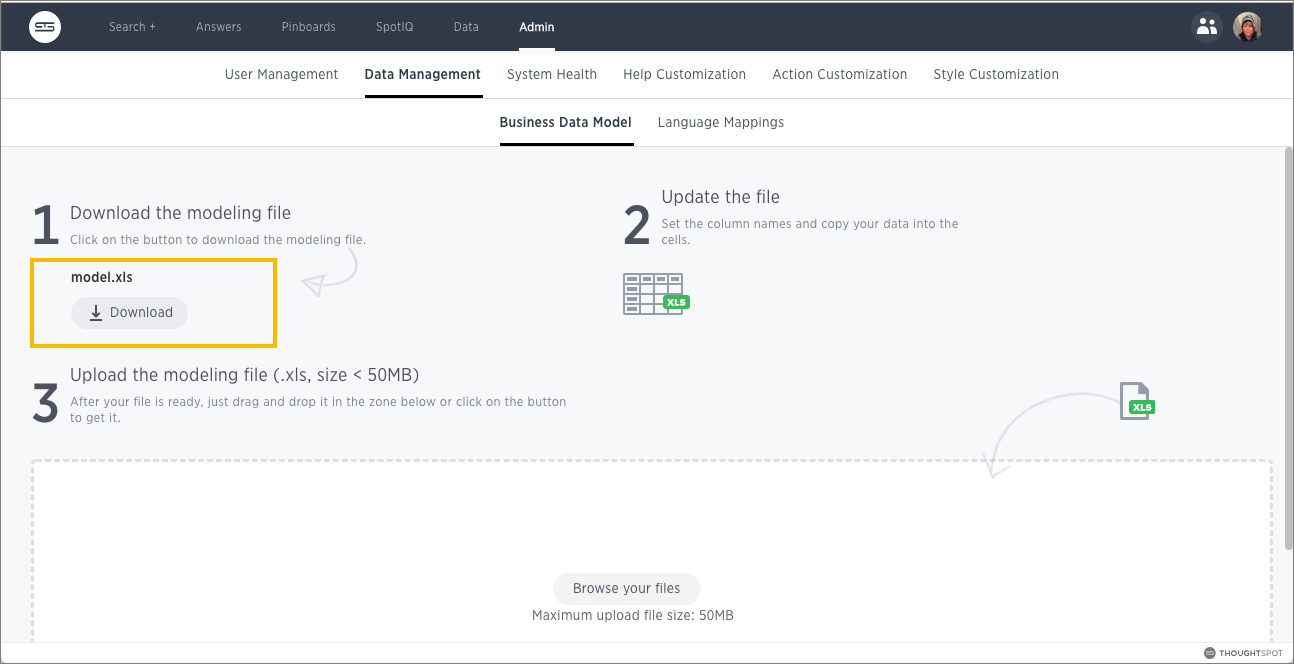
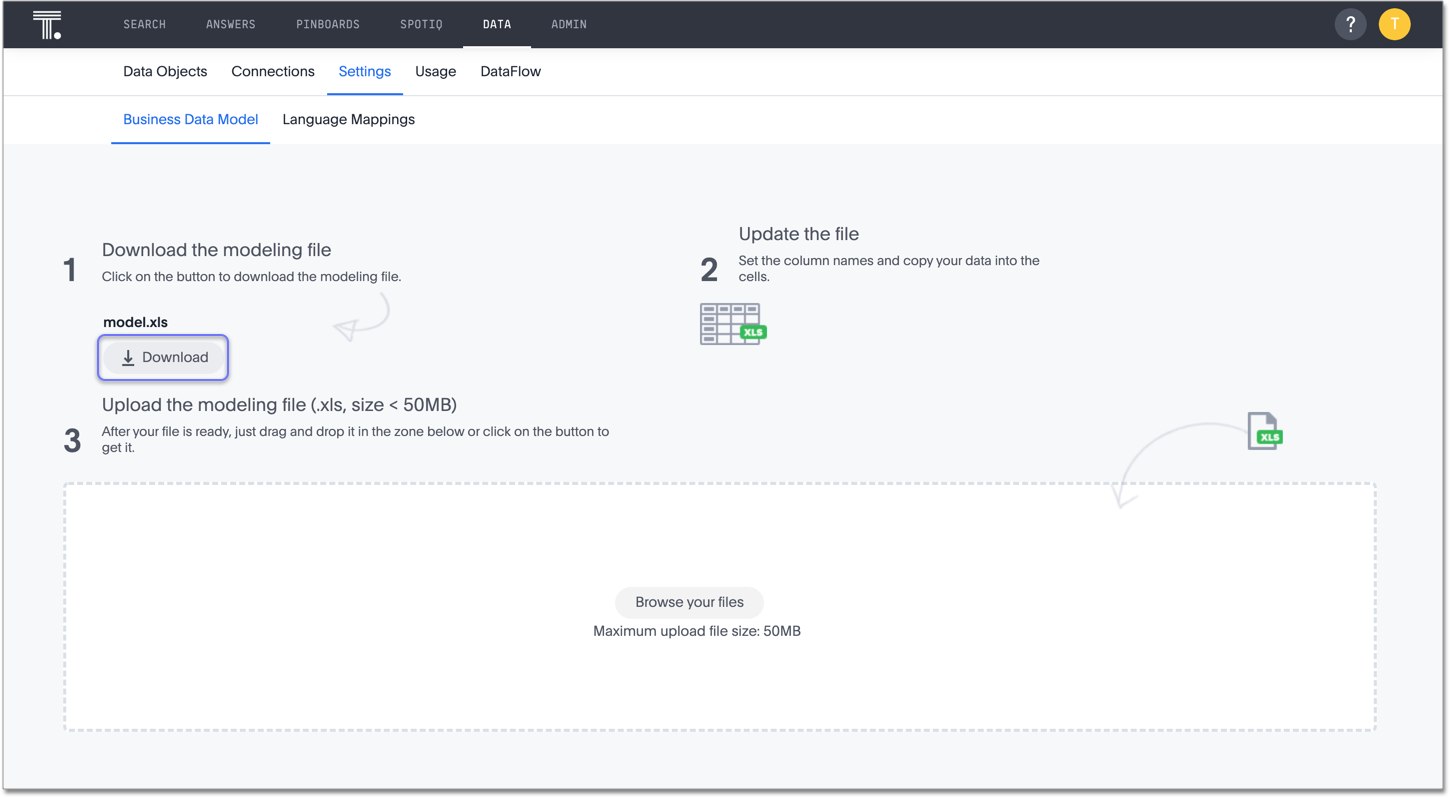
SCAL-63871 added info about spotapps, SCAL-61065

diff --git a/_admin/manage-jobs/scheduled-pinboards-management.md b/_admin/manage-jobs/scheduled-pinboards-management.md
@@ -2,13 +2,15 @@
 title: [Scheduled pinboards management]
 
 last_updated: tbd
-summary: "You can manage all scheduled pinboards on the Jobs Management page under Admin."
+summary: "You can manage all scheduled pinboards on the Jobs Management page."
 sidebar: mydoc_sidebar
 permalink: /:collection/:path.html
 ---
-Users who are not admins, but have can schedule pinboard privilege, can only view pinboard schedules they've created. You can select specific jobs and choose to pause, resume, edit, or delete them. You can have up to 50 scheduled jobs on your cluster at time. Contact ThoughtSpot Support if you'd like to increase this limit.
+Users who are not admins, but have the **can schedule pinboard** privilege, can only view pinboard schedules they've created. You can select specific jobs and choose to pause, resume, edit, or delete them. You can have up to 50 scheduled jobs on your cluster at time. Contact ThoughtSpot Support if you'd like to increase this limit.
 
- ![]({{ site.baseurl }}/images/jobs_management.png "View Jobs Management page")
+View the Jobs Management page by clicking **Data > Usage > Jobs Management**.
+
+![]({{ site.baseurl }}/images/jobs_management.png "View Jobs Management page")
 
 ## Bulk actions
 
@@ -18,12 +20,10 @@ Select the scheduled pinboards and use the **Delete**, **Resume**, and **Pause**
 
 Clicking on the row of a job will open a detailed view of every generated update of that job. You can see the start and end times of the job, as well as the status. Clicking on a job will show more information about the status updates.
 
- ![]({{ site.baseurl }}/images/success_pinboard_schedule.png "Success status updates")
-
- ![]({{ site.baseurl }}/images/failed_pinboard_schedule.png "Failed status updates")
+![Job statuses]({{ site.baseurl }}/images/pinboard-job-status.png "Job statuses")
 
 ## Pinboard links
 
-Click the scheduled pinboard name link to jump to a Edit schedule page, where you can edit the schedule configurations.
+Click the scheduled pinboard name link to jump to an Edit schedule page, where you can edit the schedule configurations.
 
 You can also click the pinboard link provided in the scheduled pinboard emails to jump to the pinboard in ThoughtSpot. In order to have the link direct you to the correct URL, you must first configure front end host and port access. Contact ThoughtSpot Support to configure these settings.

diff --git a/_admin/data-modeling/searchiq-mappings.md b/_admin/data-modeling/searchiq-mappings.md
@@ -16,7 +16,7 @@ permalink: /:collection/:path.html
 
 When a user types a term in the SearchIQ search bar, SearchIQ interprets what the user means through language mappings. Users can teach their language to SearchIQ using [Teach SearchIQ your language]({{ site.baseurl }}/end-user/search/teach-searchiq.html).
 
-As an administrator, you can see and change these language mappings by editing the mappings file. You can access the mappings file if you are in the Administrator group, because then you can have access to the **ADMIN > Data Management** page. You can download the mappings file there. This allows you to view and edit all the language mappings users made, in bulk.
+As an administrator, you can see and change these language mappings by editing the mappings file. You can download the mappings file there from **Data > Settings > Language Mappings**. This allows you to view and edit all the language mappings users made, in bulk.
 
 ## Overview of the mapping process
 
@@ -40,8 +40,8 @@ you edit it using Microsoft Excel, vi/vim, or a similar text editing tool.
 To obtain the model file:
 
 1. Log in to ThoughtSpot from a browser as an Administrator user.
-2. Click **ADMIN** in the top navigation bar.
-3. Click **Data Management**, then click **Language Mappings**.
+2. Click **Data** in the top navigation bar.
+3. Click **Settings**, then click **Language Mappings**.
 4. Click **Download**.
 
 ## Edit the file and change the settings
@@ -77,9 +77,9 @@ After you have made changes to the mapping file, you must upload it back to
 ThoughtSpot before the changes will take effect. To upload the mapping file:
 
 1. Log in to ThoughtSpot from a browser as an Administrator user.
-2. Click **ADMIN**, on the top navigation bar.
+2. Click **Data**, on the top navigation bar.
 
-3. Click **Data Management**, then click **Language Mappings**.
+3. Click **Settings**, then click **Language Mappings**.
 4. Click **Browse your files** to upload the mappings.xls file, or drag and drop it in the zone.
 
     If you receive an error message upon uploading the file, check that it does

diff --git a/_admin/scriptability/app-templates.md b/_admin/scriptability/app-templates.md
@@ -1,0 +1,25 @@
+---
+title: [SpotApps]
+last_updated: 7/28/2020
+summary: "Use SpotApps to gain insights into your Salesforce, accounts receivable, or procurement instances."
+sidebar: mydoc_sidebar
+permalink: /:collection/:path.html
+---
+
+SpotApps let you examine your existing Salesforce, accounts receivable, and procurement data, using pre-built applications.
+
+When you first provision ThoughtSpot, you have to put in some work to load and model your data, and prepare it for your users. SpotApps can streamline this process, by providing you with pre-built ThoughtSpot objects based on your existing Salesforce, accounts receivable, and procurement data.
+
+Once you connect to your data, you can work with your ThoughtSpot contacts to deploy ThoughtSpot's scriptable applications, or SpotApps, which provide an easy way for you to start getting value from your data.
+
+Currently, ThoughtSpot offers three pre-built SpotApps: Salesforce, procurement, and accounts receivable. These applications leverage your data to provide pre-built Pinboards, Answers, and Worksheets.
+
+For example, if you choose to use the Procurement SpotApp, the **Search** page contains a Worksheet for your users to query on, called "Procurement Analytics Solution."
+
+![Procurement Worksheet Search]({{ site.baseurl }}/images/scriptable-app-procurement-search.png "Procurement Worksheet Search")
+
+Your users may want to understand what Answers and Pinboards are, and gain insights from them, before they start searching themselves. They can view and interact with any of the pre-existing objects, such as this Exec Summary Pinboard:
+
+![Exec summary]({{ site.baseurl }}/images/exec-summary-pinboard.png "Exec summary")
+
+When you are ready to move to a production environment, you can migrate these Pinboards, Answers, and Worksheets to your new environment using [Scriptability]({{ site.baseurl }}/admin/scriptability/scriptability.html), ThoughtSpot's flat-file editing and migration system for ThoughtSpot objects.

diff --git a/_admin/manage-jobs/about-scheduled-pinboards.md b/_admin/manage-jobs/about-scheduled-pinboards.md
@@ -6,7 +6,7 @@ sidebar: mydoc_sidebar
 permalink: /:collection/:path.html
 ---
 
-The **Jobs Management** page found on the **Admin** section in the ThoughtSpot
+The **Jobs Management** page found in the **Data > Usage** section in the ThoughtSpot
 web application allows you to create and manage jobs, namely scheduled
 pinboards. Scheduled pinboards should help with preparing for recurrent
 meetings, when reviewing the same pinboard is necessary. They should also be
@@ -51,7 +51,7 @@ each file format.
 |The CSV file gets data only for table visualizations.|The PDF file gets data for all visualizations.|
 |The email has n CSV attachments, where there are n table visualizations in the pinboard.|The email has only one attachment file, which includes every visualization on its own page.|
 |Table visualizations have all data rows that they're supposed to have.|Table visualizations include only the first 100 rows.|
-|In the case of a corrupted pinboard: no email is sent. An error message indicating failure to export data is visible on the Admin Jobs Management page.|In the case of a corrupted pinboard: the PDF attachment has empty/error screenshots.|
+|In the case of a corrupted pinboard: no email is sent. An error message indicating failure to export data is visible on the Data > Usage > Jobs Management page.|In the case of a corrupted pinboard: the PDF attachment has empty/error screenshots.|
 |In the case of a corrupted visualization: an email with the visualizations whose data can be exported is sent. An error message indicating visualization export error is visible on the Jobs Management page.|In the case of a corrupted visualization: the PDF attachment has empty/error slots for the corrupted visualizations.|
 
 The size of each email is limited to 25 MB, which matches most email services

diff --git a/_admin/data-modeling/edit-model-file.md b/_admin/data-modeling/edit-model-file.md
@@ -50,11 +50,11 @@ To obtain the model file:
 
 1. Log in to ThoughtSpot from a browser as an Administrator user.
 
-2. Click the **ADMIN** tab in the top navigation bar.
+2. Click the **Data** tab in the top navigation bar.
 
-    ![]({{ site.baseurl }}/images/admin_icon.png)
+    ![]({{ site.baseurl }}/images/data-tab.png)
 
-3. Click **Data Management**, then click **Business Data Model**.
+3. Click **Settings**, then click **Business Data Model**.
 
 4. Click **Download**.
 
@@ -98,11 +98,11 @@ After you have made changes to the modeling file, you must upload it back to
 ThoughtSpot before the changes will take effect. To upload the model file:
 
 1. Log in to ThoughtSpot from a browser as an Administrator user.
-2. Click **ADMIN**, on the top navigation bar.
+2. Click **Data**, on the top navigation bar.
 
-    ![]({{ site.baseurl }}/images/admin_icon.png)
+    ![]({{ site.baseurl }}/images/data-tab.png)
 
-3. Click **Data Management**, then click **Business Data Model**.
+3. Click **Settings**, then click **Business Data Model**.
 4. Click **Browse your files** to upload the model.xls file, or drag and drop it in the zone.
 
     ![]({{ site.baseurl }}/images/upload_model.png)

diff --git a/_admin/scriptability/scriptability.md b/_admin/scriptability/scriptability.md
@@ -22,4 +22,4 @@ The Scriptability feature supports several scenarios that you may encounter:
 
 You can download these objects in the form of a scriptable file in the ThoughtSpot Scripting Language, or TSL.
 
-Use SpotApps to export Worksheets, Pinboards, and Answers in a human-readable format.
+Use Scriptability to export Worksheets, Pinboards, and Answers in a human-readable format.

diff --git a/_admin/system-monitor/data.md b/_admin/system-monitor/data.md
@@ -7,6 +7,7 @@ toc: false
 sidebar: mydoc_sidebar
 permalink: /:collection/:path.html
 ---
+You can find the Data board under **Data > Usage > Data**.
 
  ![]({{ site.baseurl }}/images/control_center_data.png "Partial view of the System Health center: Data")
 
